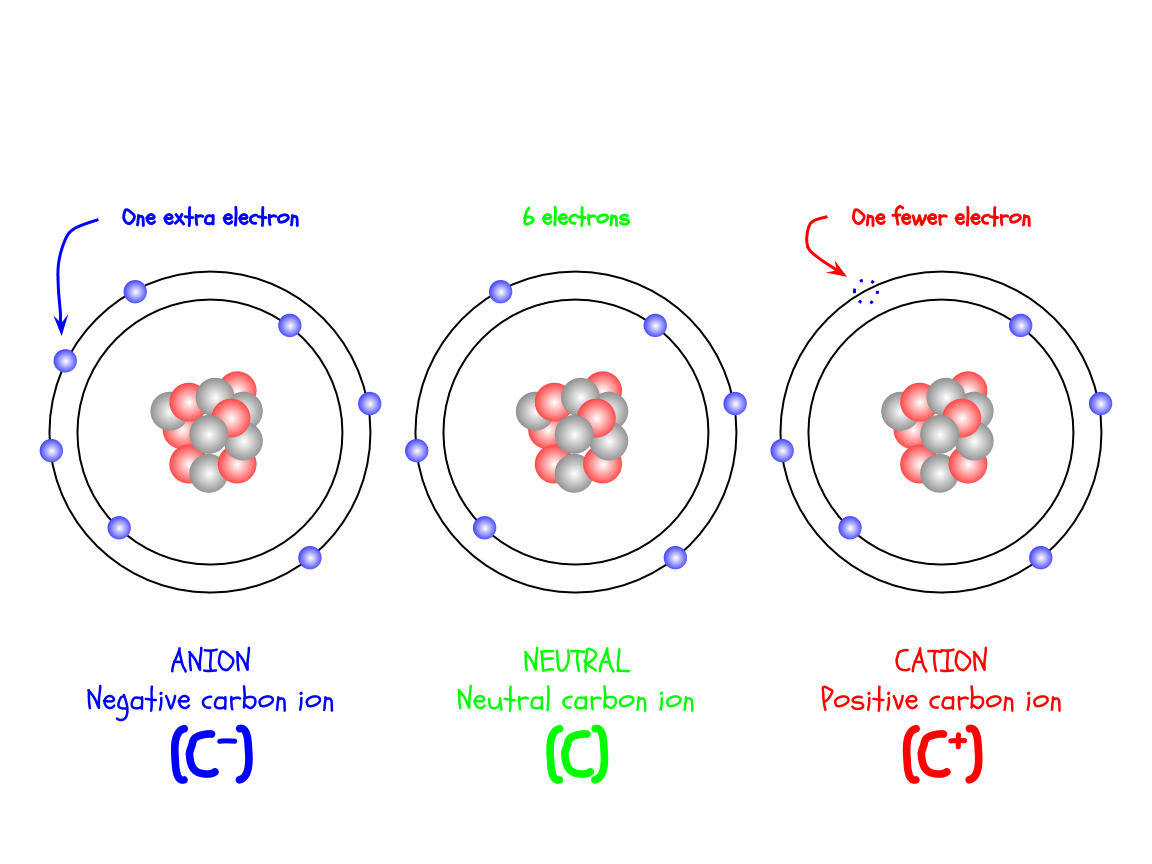
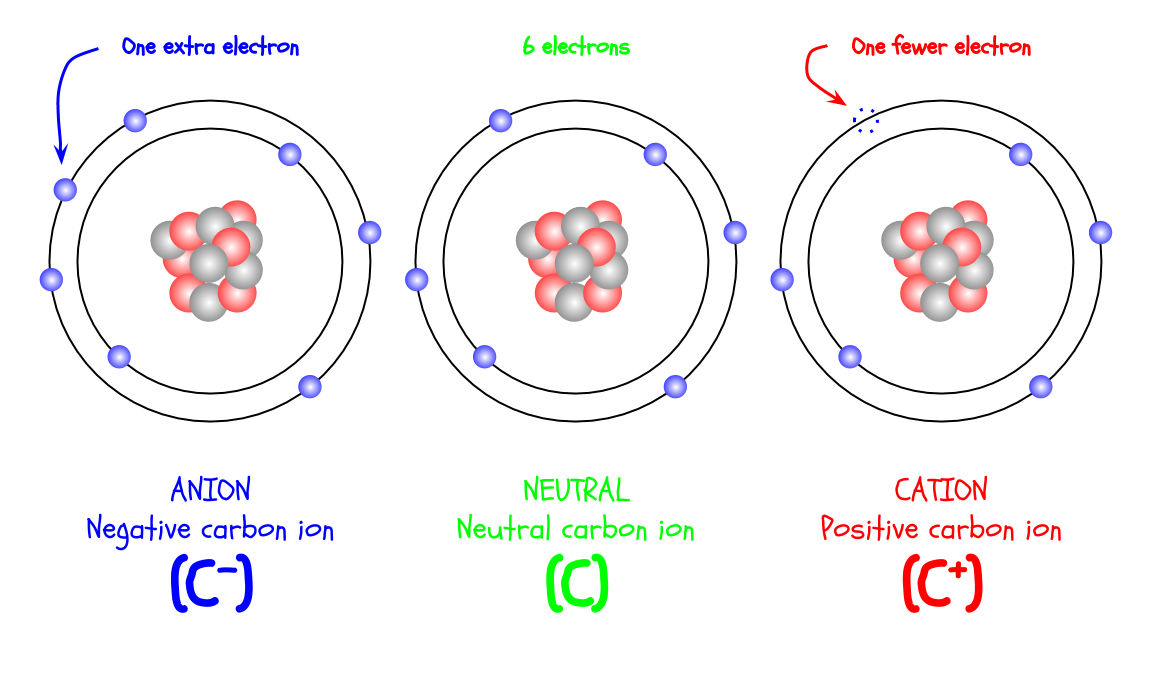
smallest particles edit 12

diff --git a/categories/miniposts/smallest-particles/smallest-particles.html b/categories/miniposts/smallest-particles/smallest-particles.html
@@ -386,7 +386,8 @@ body {
               <span class="popuptext" id="popup4">Aluminum: 13 <br> Molybdenum: 42 <br> Mendelevium: 101</span>
             </span>
             <br>
-            <img src="/categories/miniposts/smallest-particles/ptable.jpg#" alt="The holy grail of chemistry" style="width:30%;height:30%;">
+            <br>
+            <img src="/categories/miniposts/smallest-particles/ptable.jpg#" alt="The holy grail of chemistry" style="width:70%;height:70%;" class="center">
             <br>
             <i>Image credit: thoughtco.com</i>
             <br>
@@ -400,6 +401,7 @@ body {
             <span class="popup" onclick="popup5f()"><sup><b>&#9650;</b></sup>
               <span class="popuptext" id="popup5">A trick to remember this: CATions are “PAWS-itive”</span>
             </span>
+            <br>
             <img src="/categories/miniposts/smallest-particles/ions.png#" alt="Ions, anions, cations" style="width:60%;height:60%;" class="center">
             <br>
             <br>
